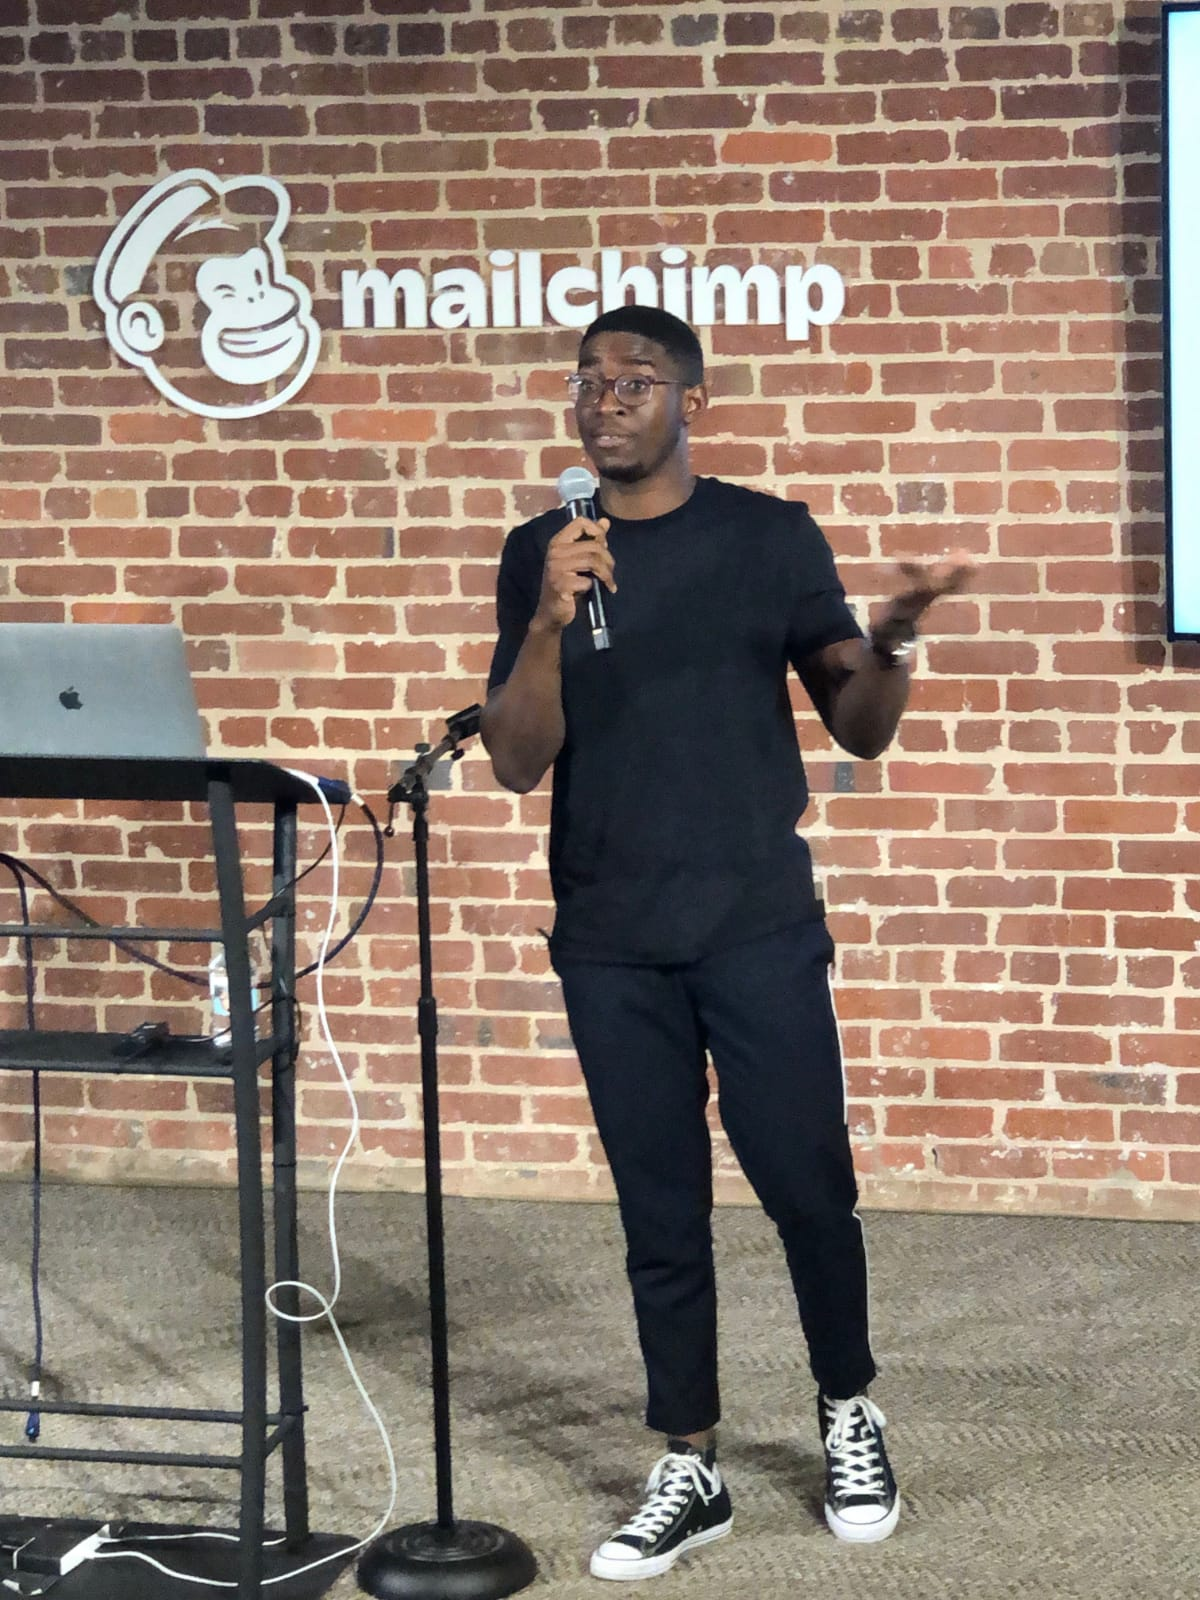
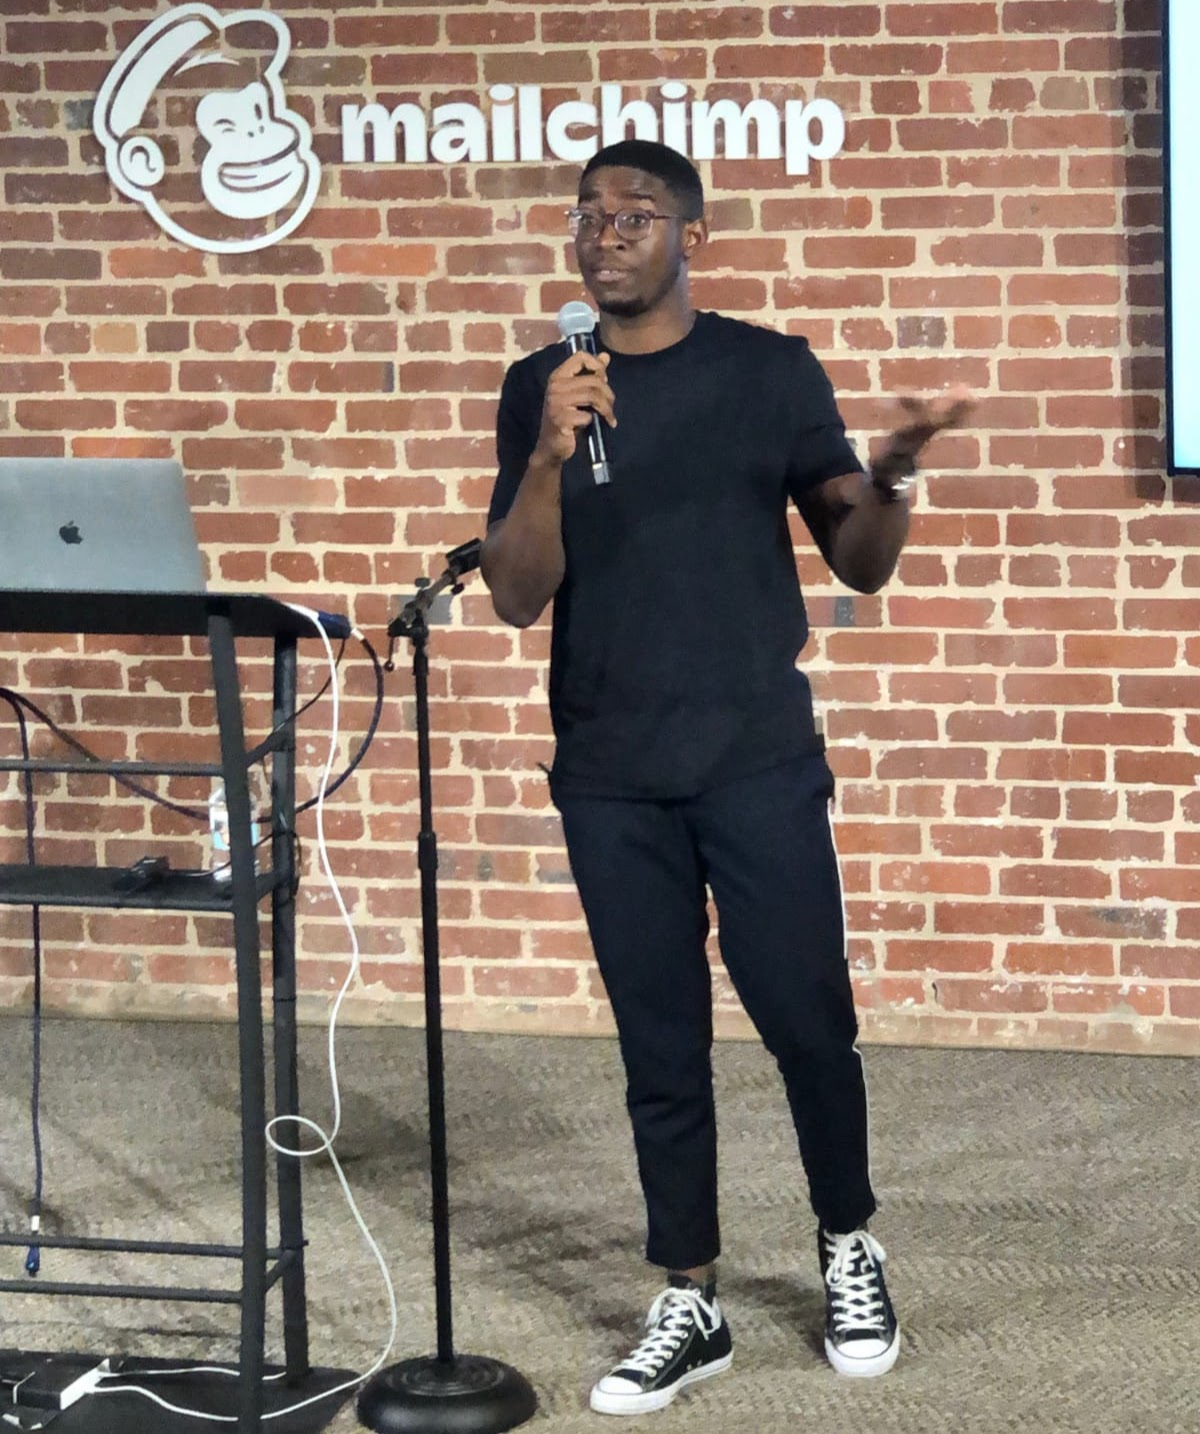
updated pic and code

diff --git a/index.html b/index.html
@@ -81,7 +81,7 @@
               <br>Feel free to navigate around this website to learn more about me, as well as my experience, passions and projects! </p> 
         </div>
         <div class="col-lg-4 mr-auto">
-          <p class="lead">      <img class="img-fluid mb-5 d-block mx-auto" src="images/portfolio/HEADER.png" alt="Mesto pic" style="height:600px; ">
+          <p class="lead">      <img class="img-fluid mb-5 d-block mx-auto" src="images/portfolio/HEADER.png" alt="Mesto pic" style="height:550px; ">
           </p>
         </div>
       </div>
@@ -99,7 +99,7 @@
           <h3 class="text-center text-uppercase text-white">7Park Data</h3>
           <div class="row">
             <div class="offset-sm-3 col-sm-6 col-lg-8 offset-lg-4">
-                <p> This past summer, I interned as a <b>Rotational Product Intern</b> at 7Park Data, which is a New York based startup. I interned for the Product team, whose main goal is to create products that allow investors and business leaders to make better data based decisions. My intern project involved working with data scientists, engineers, research analysts and a designer to build a Tableau dashboard which will be used by key clients. 
+                <p> This past summer, I interned with the <b>Product</b> team at 7Park Data, which is a New York based startup. The team's goal is to deliver the best products that allow investors and business leaders to make better data based decisions. My intern project involved working with data scientists, engineers, research analysts and a designer to build a Tableau dashboard which will be used by key clients. 
                 <br>Having complete ownership over a product and leading its discovery, development and even setting up its QA pipeline was an exciting experience. </p>
 <!-- TODO: add a picture here -->
 <!-- <img class="img-fluid" src="images/portfolio/piphi1.jpeg" alt="piphi photo"> -->
@@ -122,8 +122,8 @@
           <h3 class="text-center text-uppercase text-white">Mailchimp</h3>
           <div class="row">
             <div class="offset-sm-3 col-sm-6 col-lg-8 offset-lg-4">
-                <p> In the summer of 2019, I interned with the <b>Marketing Analytics </b>team at Mailchimp in Atlanta. My internship was focused on analyzing user activity and evaluating influencers on the Mailchimp platforms and reporting key metrics to 7 product and marketing teams. I also led the redesign of the Google Tag Manager tag implementation pipeline. 
-                <br>This experience helped me to discover my superpower- working in cross-functional teams and being the voice of the user to build the best products.               </p>
+                <p> In the summer of 2019, I interned with the <b>Marketing Analytics </b>team at Mailchimp in Atlanta. My internship was focused on analyzing user activity and evaluating influencers on the Mailchimp platforms and reporting key metrics to 7 product and marketing teams. I also led the redesign of the Google Tag Manager tag implementation pipeline, saving over $500K.
+                <br>This experience helped me to discover my superpower- working in cross-functional teams and being the voice of the user to build the best products.</p>
 <!-- TODO: add a picture here -->
 <!-- <img class="img-fluid" src="images/portfolio/piphi1.jpeg" alt="piphi photo"> -->
 
@@ -135,7 +135,7 @@
           <div class="row">
             <div class="offset-sm-3 col-sm-8 col-lg-8 offset-lg-4">
         <!-- <img class="img-fluid" src="images/portfolio/piphi2.JPG" alt="google logo"> -->
-        <img class="img-fluid" src="images/portfolio/mailchimp.jpg" alt="mailchimp pic" style="width:300px;height:450px; "  >
+        <img class="img-fluid" src="images/portfolio/mailchimp.jpg" alt="mailchimp pic" style="height:350px; "  >
             </div>
           </div>
         </div>
@@ -147,8 +147,6 @@
             <div class="offset-sm-3 col-sm-6 col-lg-8 offset-lg-4">
                 <p> In the summer and fall of 2018, I interned with the <b>IT Quality Assurance</b> team at AutoZone in Memphis. Although I had just completed my freshman year, I had the huge task of testing all the e-commerce code from the company's Engineering teams. I was involved throughout the whole lifecycle of the products: from creating design specs to executing security and performance tests just before each launch. 
                 <br>Reporting directly to senior engineers and business leaders, this internship taught me the invaluable lesson of communication and creating quality products that customers love. 
-    
-
  </p>
             </div>
           </div>
@@ -297,7 +295,7 @@
                       <img class="img-fluid mb-5" src="images/portfolio/CityConnectIn.png" alt="cc out" style="width:550px; height: 400px;  ">
                     <p class="mb-3">
                       This was a weekend-long project for the Memphis Civic Data Hackathon. Through this hackathon, I was able to use my passion for using technology to solve human problems. One of the biggest problems in Memphis is a very poorly designed and unreliable bus system. 
-                        <br> My team and I tackled this problem first collecting user feedback from the residents that use the bus across the city and we identified underutilized bus stops using QGIS, pandas and Geopy. TRo solve the problem, we designed a new distribution of bus stops that would decrease the residents' wait time by 10%. 
+                        <br> My team and I tackled this problem by first collecting user feedback from the residents that use the bus across the city and we identified under-utilized bus stops using QGIS, pandas and Geopy. To solve the problem, we designed a new distribution of bus stops that would decrease the residents' wait time by 10%. 
                          <br>Created: Spring 2020 
                       </p>
                       <a class="btn btn-primary btn-lg rounded-pill mx-1" href="https://docs.google.com/presentation/d/1ih32v6dJ3aH2GKTkyGA9UPrR54y7Iz_d_a3FjUVapw0/edit#slide=id.p1">See the Project</a>
@@ -351,7 +349,7 @@
                 <img class="img-fluid mb-5" src="images/portfolio/SimpleTweetWalkthrough.gif" alt="st photo" style="height:500px;" >
                 <p class="mb-3">
                   Simple Tweet is an Android application that allows a user to view their Twitter timeline, compose and post a tweet, pull down to refresh, and also scroll down their timeline with infinite pagination. 
-                  This project involved using the Twitter REST API for pulling tweets, Android Async HTTP and Glide for image loading.
+                  <br>This project involved using the Twitter REST API for pulling tweets, Android Async HTTP and Glide for image loading.
                   <br> Created: Fall 2019
                 </p>
                 <a class="btn btn-primary btn-lg rounded-pill mx-1" href="https://github.com/Methembe7/SimpleTweet">See the Project</a>
@@ -403,8 +401,8 @@
                 <hr class="star-dark mb-5">
                 <img class="img-fluid mb-5" src="images/portfolio/MestogramWalkthrough.gif" alt="mestogram wt "style="height:500px;"  >
                 <p class="mb-3">
-                  MestoGram is a photo-sharing Android application, similar to Instagram, but using Parse at its backend. It allows a user to posts made by their friends, take pictures and make new posts and view their profile. 
-                    <br> This app was a great way to learn about design for mobile apps as I designed this app to be very much similar to the Instagram monbile app. 
+                  MestoGram is a photo-sharing Android application, similar to Instagram, but using Parse as its backend. It allows a user to posts made by their friends, take pictures and make new posts and view their profile. 
+                    <br> This app was a great way to learn and explore design for mobile apps as I designed this app to be very much similar to the Instagram mobile app. 
                     Open-source libraries used: Parse, Android Async HTTP and Glide. 
                   <br> Created: Fall 2019
                 </p>
@@ -431,7 +429,7 @@
           <h3 class="text-center text-uppercase text-white">Up 'a' Step</h3>
           <div class="row">
             <div class="offset-sm-3 col-sm-6 col-lg-8 offset-lg-4">
-                <p> In 2019, I co-founded and served as the <b>Chief Technology Officer</b> of <b>Up 'a' Step</b> which provided a global community and network for more than 600 students to inspire each other and share positive content on personal and professional development. 
+                <p> In 2019, I co-founded and served as the <b>Chief Technology Officer</b> of Up 'a' Step which provides a global community and network for more than 600 students to inspire each other and share positive content on personal and professional development. 
                 <br>The motivation came from a problem I experienced after transitioning to the educational system in the US as an international student. I struggled to find content online that was relatable to my experience as a student and witnessed a lot of my friends dropping out or switching programs due to a lack of motivation. 
                 <br> It allowed me to research and find ways to support students through content on social media platforms. 
                 </p>
@@ -471,7 +469,7 @@
           <h3 class="text-center text-uppercase text-white">STS Elite</h3>
           <div class="row">
             <div class="offset-sm-3 col-sm-6 col-lg-8 offset-lg-4">
-                <p> I’m motivated by bridging gaps and creating opportunities. One of the ways that I do this is through serving as the <b>Membership Chair</b> of <b>STS Elite</b>. STS Elite is the largest leadership and professional development organization in the city of Memphis. <br>As the Membership Chair, I am the liason between students and their mentors. I also confer with students and an advisory council to assess how to relate curriculum materials to the students’ individual needs </p>
+                <p> I’m motivated by bridging gaps and creating opportunities. One of the ways that I do this is through serving as the <b>Membership Chair</b> of STS Elite. STS Elite is the largest leadership and professional development organization in the city of Memphis. <br>As the Membership Chair, I am the liason between students and their mentors. I also confer with students and an advisory council to assess how to relate curriculum materials to the students’ individual needs </p>
             </div>
           </div>
         </div>
@@ -489,7 +487,7 @@
           <h3 class="text-center text-uppercase text-white">Blacks in Cyber</h3>
           <div class="row">
             <div class="offset-sm-3 col-sm-6 col-lg-8 offset-lg-4">
-                <p> When I'm not in class, tutoring my CS students, working out or attending meetings, I enjoy learning about new and emerging technology! As the <b>Campus Ambassador</b> for <b>Blacks In Cyber</b>, I lead bi-weekly discussions, organize group projects and Capture the Flag competitions for more than 30 students on campus. </p>
+                <p> When I'm not in class, tutoring my CS students, working out or attending meetings, I enjoy learning about new and emerging technology! As the <b>Campus Ambassador</b> for Blacks In Cyber, I lead bi-weekly discussions, organize group projects and Capture the Flag competitions for more than 30 students on campus. </p>
 
             </div>
           </div>
